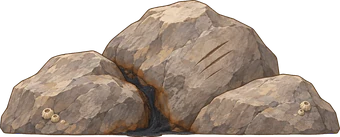
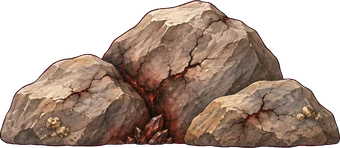
창고의 흔적: 검은 결정 상자·부식 돌 그림 교체 (#139)
* 창고의 흔적: 검은 결정 상자·부식 돌 그림 교체, 발견 대사 변경 (v=128)

Claude-Session: https://claude.ai/code/session_01SwHSdZUuqR4fiCaFb6o9ib

* 창고 상자·돌 그림을 게임 속 검은 결정(붉은 빛줄기) 모습으로 수정

Claude-Session: https://claude.ai/code/session_01SwHSdZUuqR4fiCaFb6o9ib

---------

diff --git a/games/autelia/index.html b/games/autelia/index.html
@@ -6,7 +6,7 @@
 <title>아우텔리아 (시제품)</title>
 <link rel="preconnect" href="https://fonts.googleapis.com">
 <link href="https://fonts.googleapis.com/css2?family=Noto+Sans+KR:wght@300;400;500;700&display=swap" rel="stylesheet">
-<link rel="stylesheet" href="css/game.css?v=127">
+<link rel="stylesheet" href="css/game.css?v=128">
 </head>
 <body>
 <div id="stage" tabindex="-1">
@@ -16,39 +16,39 @@
   <div id="boot">불러오는 중…</div>
 </div>
 <noscript><p style="padding:20px">이 게임은 JavaScript가 필요합니다.</p></noscript>
-<script src="js/config.js?v=127"></script>
-<script src="js/prologue/artmeta.js?v=127"></script>
-<script src="js/data.js?v=127"></script>
-<script src="js/mission_spans.js?v=127"></script>
-<script src="js/prologue/data.js?v=127"></script>
-<script src="js/prologue/text_intro.js?v=127"></script>
-<script src="js/story1.js?v=127"></script>
-<script src="js/story_hideout.js?v=127"></script>
-<script src="js/porto_ext.js?v=127"></script>
-<script src="js/prologue/intro_timeline.js?v=127"></script>
-<script src="js/core.js?v=127"></script>
-<script src="js/tint.js?v=127"></script>
-<script src="js/systems.js?v=127"></script>
-<script src="js/profile.js?v=127"></script>
-<script src="js/prologue/art.js?v=127"></script>
-<script src="js/prologue/art2.js?v=127"></script>
-<script src="js/prologue/engine.js?v=127"></script>
-<script src="js/prologue/scenes.js?v=127"></script>
-<script src="js/mission_evidence.js?v=127"></script>
-<script src="js/real_bridge.js?v=127"></script>
-<script src="js/world.js?v=127"></script>
-<script src="js/ui.js?v=127"></script>
-<script src="js/guide.js?v=127"></script>
-<script src="js/journal_tour.js?v=127"></script>
-<script src="js/first_mission_guide.js?v=127"></script>
-<script src="js/equip_tour.js?v=127"></script>
-<script src="js/scales/pss10_ko_park_seo_2010.js?v=127"></script>
-<script src="js/scales/perma_kperma_2019.js?v=127"></script>
-<script src="js/survey.js?v=127"></script>
-<script src="js/survey_ui.js?v=127"></script>
-<script src="js/sfx.js?v=127"></script>
-<script src="js/sfx_wire.js?v=127"></script>
-<script src="js/bgm.js?v=127"></script>
-<script src="js/main.js?v=127"></script>
+<script src="js/config.js?v=128"></script>
+<script src="js/prologue/artmeta.js?v=128"></script>
+<script src="js/data.js?v=128"></script>
+<script src="js/mission_spans.js?v=128"></script>
+<script src="js/prologue/data.js?v=128"></script>
+<script src="js/prologue/text_intro.js?v=128"></script>
+<script src="js/story1.js?v=128"></script>
+<script src="js/story_hideout.js?v=128"></script>
+<script src="js/porto_ext.js?v=128"></script>
+<script src="js/prologue/intro_timeline.js?v=128"></script>
+<script src="js/core.js?v=128"></script>
+<script src="js/tint.js?v=128"></script>
+<script src="js/systems.js?v=128"></script>
+<script src="js/profile.js?v=128"></script>
+<script src="js/prologue/art.js?v=128"></script>
+<script src="js/prologue/art2.js?v=128"></script>
+<script src="js/prologue/engine.js?v=128"></script>
+<script src="js/prologue/scenes.js?v=128"></script>
+<script src="js/mission_evidence.js?v=128"></script>
+<script src="js/real_bridge.js?v=128"></script>
+<script src="js/world.js?v=128"></script>
+<script src="js/ui.js?v=128"></script>
+<script src="js/guide.js?v=128"></script>
+<script src="js/journal_tour.js?v=128"></script>
+<script src="js/first_mission_guide.js?v=128"></script>
+<script src="js/equip_tour.js?v=128"></script>
+<script src="js/scales/pss10_ko_park_seo_2010.js?v=128"></script>
+<script src="js/scales/perma_kperma_2019.js?v=128"></script>
+<script src="js/survey.js?v=128"></script>
+<script src="js/survey_ui.js?v=128"></script>
+<script src="js/sfx.js?v=128"></script>
+<script src="js/sfx_wire.js?v=128"></script>
+<script src="js/bgm.js?v=128"></script>
+<script src="js/main.js?v=128"></script>
 </body>
 </html>

diff --git a/games/autelia/js/data.js b/games/autelia/js/data.js
@@ -34,7 +34,7 @@ AU.ASSETS = {
   mon_umbra_down: { path: "assets/monster/umbra_down.webp", optional: true },
   ob_rock_s: { path: "assets/object/rock_s.webp", optional: true }, ob_rock_m: { path: "assets/object/rock_m.webp", optional: true }, ob_rock_big: { path: "assets/object/rock_big.webp", optional: true }, ob_rock_tall: { path: "assets/object/rock_tall.webp", optional: true }, ob_rock_low: { path: "assets/object/rock_low.webp", optional: true },
   ob_fence_broken: { path: "assets/object/fence_broken.webp", optional: true }, ob_fence_fixed: { path: "assets/object/fence_fixed.webp", optional: true },
-  ob_trace_stain: { path: "assets/object/trace_stain.webp", optional: true }, ob_trace_crate: { path: "assets/object/trace_crate.webp", optional: true }, it_guild_parcel: { path: "assets/object/guild_parcel.webp", optional: true },
+  ob_trace_stain: { path: "assets/object/trace_stain.webp", optional: true }, ob_trace_crate: { path: "assets/object/trace_crate.webp", optional: true }, ob_trace_crystal_crate: { path: "assets/object/trace_crystal_crate.webp", optional: true }, it_guild_parcel: { path: "assets/object/guild_parcel.webp", optional: true },
   job_warrior: { path: "assets/job/warrior.webp", optional: true }, job_hero: { path: "assets/job/hero.webp", optional: true }, job_mage: { path: "assets/job/mage.webp", optional: true }, job_archer: { path: "assets/job/archer.webp", optional: true }, job_rogue: { path: "assets/job/rogue.webp", optional: true }, job_pirate: { path: "assets/job/pirate.webp", optional: true },
   mon_fox:   { path: "assets/monster/fox.webp", optional: true },
   mon_fox_a1: { path: "assets/monster/fox_a1.webp", optional: true }, mon_fox_a2: { path: "assets/monster/fox_a2.webp", optional: true },   // 들여우 준비·도약 그림
@@ -145,7 +145,7 @@ AU.MAPS = {
     npcs: [],
     spots: [
       { id: "trace_stain", img: "ob_trace_stain", x: 560, kind: "investigate", label: "바위틈의 검은 얼룩", lines: ["바위틈에 말라붙은 검은 얼룩이 있습니다. 바닷물에도 씻기지 않은 듯 끈적하게 굳어 있습니다.", "짐승이 지나간 자리마다 이 얼룩이 남아 있습니다. 어둠의 기운이 짐승의 몸을 거쳐 흘러나온 흔적처럼 보입니다."] },
-      { id: "trace_crate", img: "ob_trace_crate", x: 1140, kind: "investigate", label: "부서진 짐 상자", lines: ["부서진 짐 상자의 옆면에 불도장이 찍혀 있습니다. 파도 같은 물결무늬입니다.", "어디선가 본 듯한 모양입니다. 상자 안은 비어 있지만 바닥에 검은 가루가 남아 있습니다."] }
+      { id: "trace_crate", img: "ob_trace_crystal_crate", x: 1140, kind: "investigate", label: "검은 결정이 든 상자", lines: ["상자의 옆면에 불도장이 찍혀 있습니다. 파도 같은 물결무늬입니다. 어디선가 본 듯한 모양입니다.", "열린 상자 안에 검은 결정이 가득합니다. 결정에 닿은 나무 판자가 검게 부식되어 있습니다."] }
     ],
     spawns: [], start: 220,
     area: { x: 84, y: 34, desc: "부두 옆의 큰 창고입니다. 최근 이상한 흔적이 남는다는 소문이 있습니다." }

diff --git a/games/autelia/tests/trace_crate_art.js b/games/autelia/tests/trace_crate_art.js
@@ -1,0 +1,15 @@
+/* 창고의 흔적: 검은 결정 상자·부식 돌 그림 로드·투명 배경·대사 확인 (11-24) */
+const { chromium } = require('playwright');
+const URL = (process.env.GAME_URL || 'http://localhost:8801') + '/index.html?dev=1&intro=cards';
+(async () => {
+  const b = await chromium.launch(); const p = await (await b.newContext()).newPage(); const errs = []; p.on('pageerror', (e) => errs.push(e.message));
+  await p.goto(URL); await p.waitForSelector('#btn-start');
+  const r = await p.evaluate(async () => {
+    const out = [];
+    for (const n of ['trace_stain', 'trace_crystal_crate']) { const im = new Image(); im.src = 'assets/object/' + n + '.webp'; await im.decode(); const c = document.createElement('canvas'); c.width = im.width; c.height = im.height; const x = c.getContext('2d'); x.drawImage(im, 0, 0); out.push({ n, w: im.width, h: im.height, a: x.getImageData(0, 0, 2, 2).data[3] }); }
+    const sp = AU.MAPS.warehouse.spots.find((s) => s.id === 'trace_crate');
+    return { out, img: sp.img, label: sp.label, crystal: sp.lines.join(' ').includes('검은 결정이 가득'), asset: !!AU.ASSETS.ob_trace_crystal_crate };
+  });
+  const ok = r.out.every((o) => o.w > 200 && o.a === 0) && r.img === 'ob_trace_crystal_crate' && r.crystal && r.asset && !errs.length; console.log((ok ? 'PASS ' : 'FAIL ') + JSON.stringify(r), errs);
+  await b.close(); process.exit(ok ? 0 : 1);
+})();

diff --git a/games/autelia/js/world.js b/games/autelia/js/world.js
@@ -645,7 +645,7 @@ window.AU = window.AU || {};
         const x = sp.x;
         // 정식 그림이 있으면 그림으로(방책은 고치기 전·후 두 장이 같은 틀), 없으면 아래 임시 도형
         const key = sp.img === "fence" ? (done ? "ob_fence_fixed" : "ob_fence_broken") : sp.img, im = key && AU.Img.has(key) ? AU.Img.get(key) : null;
-        if (im) { const w = sp.w || (sp.kind === "repair" ? 170 : sp.img === "ob_trace_crate" ? 112 : 160), h = w * im.naturalHeight / im.naturalWidth; ctx.drawImage(im, x - w / 2, y - h + 6, w, h); }
+        if (im) { const w = sp.w || (sp.kind === "repair" ? 170 : (sp.img === "ob_trace_crate" || sp.img === "ob_trace_crystal_crate") ? 112 : 160), h = w * im.naturalHeight / im.naturalWidth; ctx.drawImage(im, x - w / 2, y - h + 6, w, h); }
         else if (sp.kind === "repair") {
           ctx.save(); ctx.lineCap = "round";
           if (done) { ctx.strokeStyle = "#8A6B46"; ctx.lineWidth = 9; ctx.beginPath(); ctx.moveTo(x - 44, y); ctx.lineTo(x - 44, y - 70); ctx.moveTo(x + 44, y); ctx.lineTo(x + 44, y - 70); ctx.stroke(); ctx.lineWidth = 7; ctx.strokeStyle = "#A88358"; ctx.beginPath(); ctx.moveTo(x - 50, y - 56); ctx.lineTo(x + 50, y - 56); ctx.moveTo(x - 50, y - 30); ctx.lineTo(x + 50, y - 30); ctx.stroke(); }

diff --git a/docs/GPT_창고흔적_상자돌_요청문_1124.md b/docs/GPT_창고흔적_상자돌_요청문_1124.md
@@ -1,0 +1,9 @@
+# GPT 요청문 — 창고의 흔적: 돌덩이 + 검은 결정 상자 (11-24)
+
+첨부 이미지(D_trace_ref.png)는 현재 그림입니다(왼쪽 돌 무더기, 오른쪽 부서진 나무 상자). 같은 수채화풍·두꺼운 갈색 윤곽선·게임 오브젝트 그림체를 유지하면서 퀄리티를 올린 새 그림 2개를 한 장에 그려 주세요.
+
+- 배경은 단색 마젠타(#FF00FF), 그림자·바닥 선 없이 오브젝트만. 두 오브젝트는 겹치지 않게 좌우로 배치, 둘 다 바닥이 같은 높이.
+- 왼쪽: 해안 창고 구석의 돌덩이 무더기(현재 그림과 같은 구도). 돌 표면에 검은 균열이 가늘게 번져 있고, 균열 주변이 살짝 검게 변색·부식된 느낌. 균열 틈에서 검은 결정 조각이 아주 조금만 보임. 과하지 않게(표면에 검은 균열이 약간 번지는 정도).
+- 오른쪽: 검은 결정이 담긴 나무 상자. 뚜껑은 비스듬히 열리거나 벗겨져 있고, 상자 안에 윤기 있는 검은 결정 덩어리 여러 개가 보임. 결정에 닿은 나무 판자 가장자리와 안쪽이 검게 부식·균열이 번져 있음. 철띠는 낡고 녹슬어 있음. 부서진 판자 조각 한두 개가 옆에 떨어져 있어도 좋음.
+- 정면에서 약간 위에서 본 시점(현재와 동일), 측면 정사영 느낌, 캐릭터·글자·워터마크 없음.
+- 두 오브젝트의 채도·명암·크기 비율은 현재 그림과 비슷하게(돌 약 340×137, 상자 약 240×233 비율).
